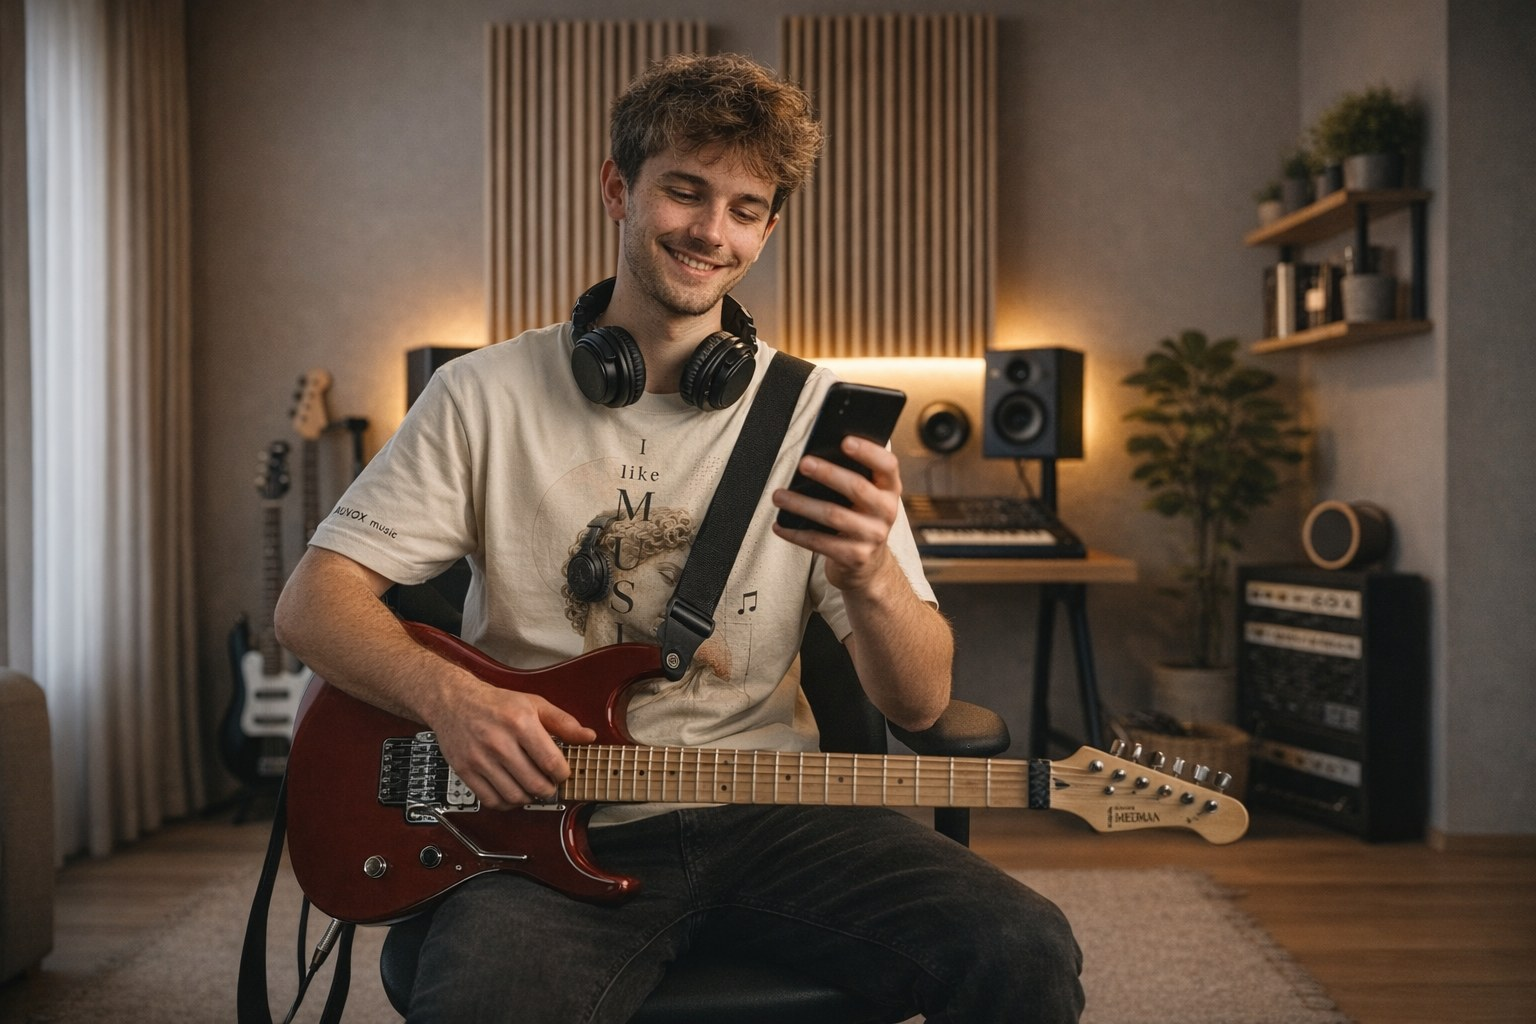
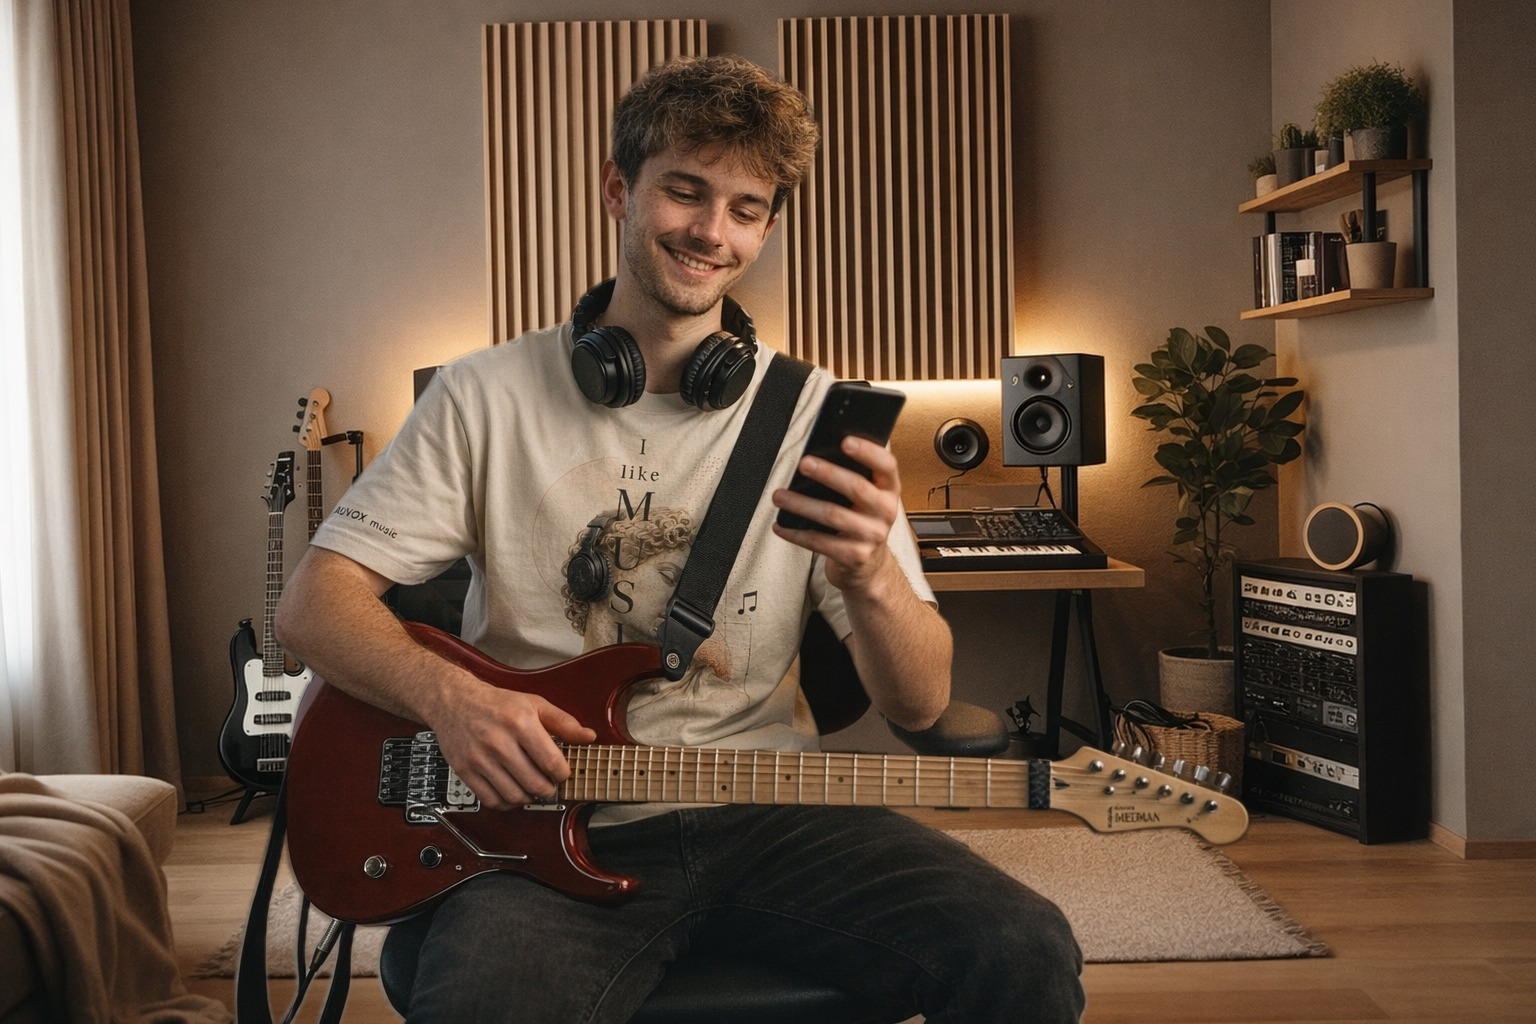
Splash: put the studio behind him into focus
The hero plate had a baked-in shallow depth of field (background 5–10x softer than him),
which neither an image edit nor a super-resolution pass could recover. The clean plate is
the same room in sharp focus, so it is aligned to the hero frame with SIFT and he (with
the guitar's headstock and the phone) is composited back over it — his pixels and every
calibration are unchanged. Depth, light masks and the title layer are regenerated.

Also renders the photo crisper: dpr up to 2, mipmaps + anisotropy on the colour map,
JPEG 92.

diff --git a/src/components/sections/Session/PhotoStudio.tsx b/src/components/sections/Session/PhotoStudio.tsx
@@ -340,9 +340,11 @@ function makeUniforms(t: PlateTextures, focus: THREE.Vector2, hasAlpha: boolean)
 function configure(loaded: unknown) {
   const list = Array.isArray(loaded) ? loaded : Object.values(loaded as Record<string, THREE.Texture>);
   (list as THREE.Texture[]).forEach((t, i) => {
-    t.colorSpace = i === 0 ? THREE.SRGBColorSpace : THREE.NoColorSpace;
-    t.minFilter = THREE.LinearFilter;
-    t.generateMipmaps = false;
+    const colour = i === 0;
+    t.colorSpace = colour ? THREE.SRGBColorSpace : THREE.NoColorSpace;
+    t.minFilter = colour ? THREE.LinearMipmapLinearFilter : THREE.LinearFilter;
+    t.generateMipmaps = colour;
+    t.anisotropy = colour ? 8 : 1;
     t.needsUpdate = true;
   });
 }
@@ -713,7 +715,7 @@ export default function PhotoStudio() {
     <Canvas
       className="absolute inset-0"
       style={{ touchAction: "pan-y" }}
-      dpr={[1, 1.25]}
+      dpr={[1, 2]}
       orthographic
       camera={{ position: [0, 0, 100], zoom: 1, near: 0.1, far: 1000 }}
       gl={{ antialias: false, powerPreference: "high-performance", toneMapping: THREE.NoToneMapping }}

diff --git a/scripts/sharp-room.py b/scripts/sharp-room.py
@@ -1,0 +1,49 @@
+"""Puts the room behind him into focus.
+
+    .venv/bin/python scripts/sharp-room.py
+
+The generated hero plate (03-A-hero-dof.png) has a baked-in shallow depth of field, which no
+upscaler can undo. The clean plate (02-B-clean-plate.png, no person) is the same room in sharp focus
+but framed wider, so it is aligned to the hero's frame (SIFT matches on the background, similarity
+transform), and the hero is composited back over it through the rembg matte plus the guitar's
+near-depth region (the matte misses the headstock). His pixels, and every calibration, are unchanged.
+
+Writes output/final/03-A-hero.png.
+"""
+
+from pathlib import Path
+
+import cv2
+import numpy as np
+from PIL import Image
+
+ROOT = Path(__file__).resolve().parents[1]
+FINAL = ROOT.parent / "AUVOX Generation Pack" / "output" / "final"
+
+hero = np.asarray(Image.open(FINAL / "03-A-hero-dof.png").convert("RGB"))
+clean = np.asarray(Image.open(FINAL / "02-B-clean-plate.png").convert("RGB"))
+matte = np.asarray(Image.open(FINAL / "layers" / "hero-cutout-mask.png").convert("L"))
+depth = np.asarray(Image.open(FINAL / "layers" / "hero-depth.png").convert("L"))
+H, W = matte.shape
+
+# align the clean plate to the hero's frame using background features only
+gh = cv2.cvtColor(hero, cv2.COLOR_RGB2GRAY)
+gc = cv2.cvtColor(clean, cv2.COLOR_RGB2GRAY)
+fg = cv2.dilate(((matte > 40) | (depth > 140)).astype(np.uint8) * 255, np.ones((41, 41), np.uint8))
+sift = cv2.SIFT_create(6000)
+k1, d1 = sift.detectAndCompute(gh, 255 - fg)
+k2, d2 = sift.detectAndCompute(gc, None)
+good = [a for a, b in cv2.BFMatcher().knnMatch(d1, d2, k=2) if a.distance < 0.72 * b.distance]
+src = np.float32([k2[g.trainIdx].pt for g in good])
+dst = np.float32([k1[g.queryIdx].pt for g in good])
+A, inliers = cv2.estimateAffinePartial2D(src, dst, method=cv2.RANSAC, ransacReprojThreshold=4)
+print(f"  {len(good)} matches, {int(inliers.sum())} inliers, scale {np.hypot(A[0, 0], A[0, 1]):.3f}")
+room = cv2.warpAffine(clean, A, (W, H), flags=cv2.INTER_LANCZOS4, borderMode=cv2.BORDER_REFLECT)
+
+# him, the guitar (headstock included) and the phone keep their own pixels
+guitar = ((depth > 150) & (np.arange(H)[:, None] > 620)).astype(np.uint8) * 255
+subject = np.maximum(matte, cv2.dilate(guitar, np.ones((5, 5), np.uint8)))
+a = cv2.GaussianBlur(subject.astype(np.float32) / 255.0, (0, 0), 1.5)[..., None]
+out = (hero * a + room * (1 - a)).astype(np.uint8)
+Image.fromarray(out).save(FINAL / "03-A-hero.png")
+print("✓ 03-A-hero.png (room in focus)")

diff --git a/scripts/export-scene.py b/scripts/export-scene.py
@@ -27,7 +27,7 @@ def webp_alpha(src: Path, name: str, quality: int = 90) -> None:
     print("✓", name, f"{(OUT / name).stat().st_size // 1024} KB")
 
 
-jpg(FINAL / "03-A-hero.png", "hero.jpg")  # bare wall: the sign arrives with the preloader
+jpg(FINAL / "03-A-hero.png", "hero.jpg", 92)  # bare wall: the sign arrives with the preloader (3072×2048)
 webp_alpha(FINAL / "03-A-hero-sign.png", "sign.webp")
 jpg(LAYERS / "hero-depth.png", "hero-depth.jpg", 85, grayscale=True)
 jpg(LAYERS / "mask-red.png", "mask-red.jpg", 80, grayscale=True)
